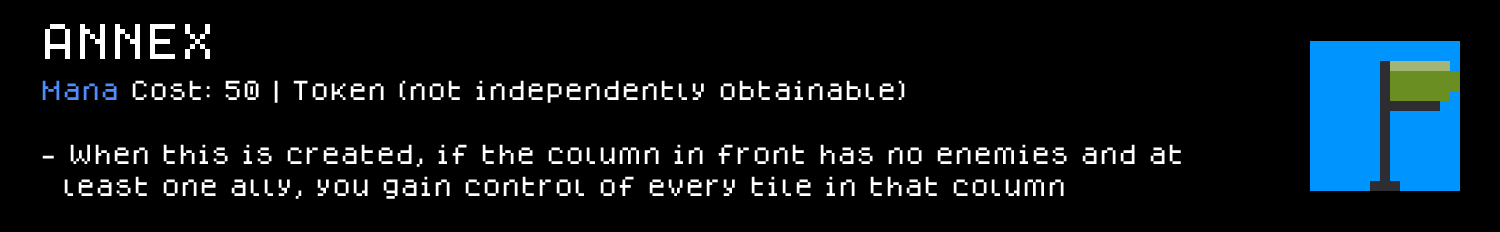
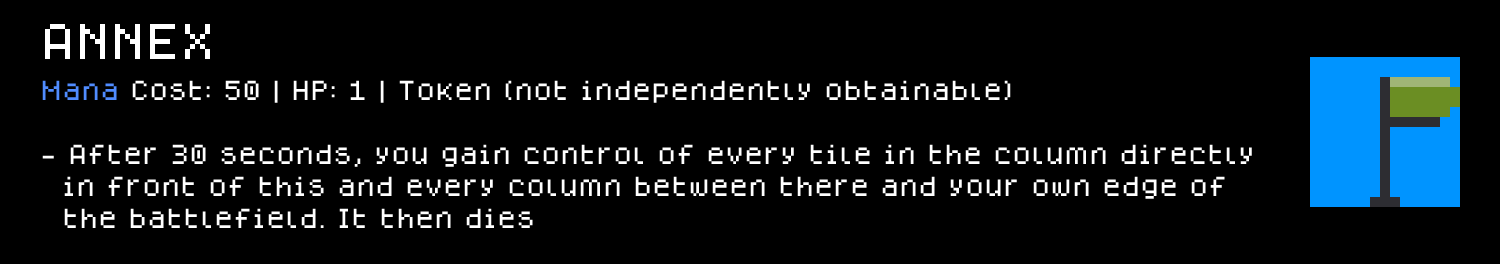
Annex and Retreat Change

diff --git a/.claude/skills/cube-chaos-scripting/references/gotchas-grepped.md b/.claude/skills/cube-chaos-scripting/references/gotchas-grepped.md
@@ -37,4 +37,5 @@ conversion (TOKEN→IDENT).
 - **`EveryXTimes DOUBLE Action` and `XTimes DOUBLE Action` are two distinct, both-real productions** (`ModdingInfo.txt:254` and `:261` respectively) — not a typo of each other and not interchangeable by assumption. Neither has a confirmed real usage anywhere in this repo as of 2026-07-27 (grepped, zero hits for either), so which one is semantically correct for "repeat this Action N times" (trigger-level periodic repetition vs. a one-shot repeated-N-times action) is still unverified — don't assume swapping one for the other silently fixes a parse error if something else in the same chain is actually broken (real incident: a `Both GainAbilityStacking ABILITY DOUBLE ...` chain threw `CANT READ DOUBLE XTimes`/`CANT READ DOUBLE EveryXTimes` identically under both names, because the real bug was `GainAbilityStacking` missing its second argument upstream — see this file's `GainAbilityStacking` entry above — not the repeat-wrapper's name).
 - **Re-granting an already-held `GenericStacking` ability via `GainAbility`/`GainRandomAbilityOfCube` (copying a live ability *value*, not calling `GainAbilityStacking` with an explicit number) DOES merge into the existing stack rather than creating a second, separately-tracked instance — user-confirmed in actual play (2026-07-26), not just inferred from the `GenericStacking`-vs-`GenericConstant` distinction documented elsewhere in this file.** The Voidling mod's `True_Void` carries a custom `VoidExpansionX` (`Counter GenericStacking`) stat-holder, occasionally re-granted to itself via `GainRandomAbilityOfCube Test` (which expands to `GainAbility (ARandomAbilityOfCubeWhich GenericCube True)` — a value-copy, not `GainAbilityStacking`); the user observed the ability's own stack count climbing over a battle rather than multiple separate "Void Reach 1" lines appearing. **What's still unconfirmed: the exact growth curve** — since `ARandomAbilityOfCubeWhich` picks the ability's *current* live value and `GainAbility` presumably adds that picked value to the existing stack, repeated picks could plausibly add a flat amount each time or compound (each pick adding whatever the stack has already grown to, i.e. doubling) — not yet distinguished empirically. If a future ability depends on knowing which, watch the exact numbers across 2-3 consecutive picks in a real battle rather than assuming linear growth.
 - **For a `BelongsTo: CLASS`/`SPECIES` perk's own "do something for MYSELF at the start of every battle" effect (grant a starting hand cube, run a one-time-per-battle computation over my own board state), use plain `Ability: AtTheStartOfTheBattle`, not `WorldAbility: AtTheStartOfTheBattle` — they are NOT interchangeable, confirmed by a real non-functional-in-play incident (2026-07-27), not just a parse difference.** Every real class in the base game grants its per-battle starting cube via the identical pattern, `Ability: AtTheStartOfTheBattle Both AddCubeToHandOfThis FreeCopy CubeConstant <X> RemoveThisAbility` (`Characters/Classes/*.c.txt`, all 10+ classes checked) — never `WorldAbility:`, and never `AddCubeToHandOfFactionInfinitly`/`AddCubeToHandOfFaction ... FactionOfCube Caster`. The General mod's new class-perk additions (a battle-start placement-zone-halving computation plus two hand-grants for `Claim`/`Retreat`) were first written as `WorldAbility: AtTheStartOfTheBattle` using `FactionOfCube Caster` throughout (to mean "my own side") and `AddCubeToHandOfFactionInfinitly CUBE FactionOfCube Caster` for the grants — this parsed with zero errors/warnings and looked structurally identical to real `WorldAbility:` precedent (`Main/NeutralPerks.c.txt`'s `Map_Compression`, the curses in `Main/Curses.c.txt`), but **user-confirmed in actual play: neither the halving nor the hand-grants ever happened**, while the same perk's pre-existing plain `Ability:` chains (the Strength-1-in-enemy-territory bonus) worked correctly the whole time. Every real `WorldAbility:` precedent that could be found either uses `Caster` purely as a scratch-variable holder with no faction check at all (`Map_Compression`), or is a curse checking `Victim`/`Target`'s faction, never `Caster`'s own (curses by nature target "the enemy," so they never needed "my own side" logic) — meaning there was never actually a confirmed real precedent of `WorldAbility:` + `FactionOfCube Caster` meaning "the perk owner," it was an unverified extrapolation from `Ability:`-context behavior. Switching all four affected lines from `WorldAbility:` to plain `Ability:` (keeping every other token identical, including `FactionOfCube Caster`) and switching the two hand-grants to `AddCubeToHandOfThis FreeCopy CubeConstant <X> RemoveThisAbility` fixed both effects, confirmed via the same real playtest. **Rule of thumb: `WorldAbility:` is for curses/neutral/global-scope effects that don't need "my own side" faction logic; a class/species's own self-directed per-battle behavior belongs on plain `Ability:`, even for `AtTheStartOfTheBattle`/`EveryXSeconds`-style periodic triggers that aren't reacting to a specific board event.**
+- **`XDelay DOUBLE Action` does not preserve the `Caster` binding for its delayed `Action` — every real usage anywhere in this repo only wraps bare, self-contained actions (`Die`, `Exile`, `RemoveThisAbility`), never `TargetCube Caster`/`GetVariableOnCube ... Caster`/`SetVariable`-based logic, and that gap turns out to be load-bearing, not incidental.** Real incident, the General mod's `Annex`/`Retreat` cubes (2026-07-27): first written as `Ability: AfterThisIsCreated XDelay DoubleConstant N Both <TargetCube-Caster-heavy column-claim/loss loop> Die` — parsed with zero errors, but **user-confirmed in actual play: the trailing bare `Die` fired correctly after the delay, while every `TargetCube Caster`/`GetVariableOnCube ... Caster`-based tile-ownership change inside the same delayed action silently did nothing** (Retreat died on schedule but never gave up even its own column; Annex's whole effect looked like it "wasn't ticking" at all). The fix: replace the `AfterThisIsCreated XDelay DoubleConstant N (...)` wrapper with `EveryXSeconds DoubleConstant N (...)` and drop `XDelay` entirely, keeping the rest of the chain (including the `Caster`-based loop and the trailing `Die`) byte-for-byte identical — `EveryXSeconds` has confirmed real precedent for `Caster`/variable-heavy logic (this same file's `Artillery`/`Bunker` cubes), fires its first tick at t=N not t=0 (confirmed via the base game's own `Doomed` compound, `EverySecond`+`1Shot Die` → "after 1 second this dies"), and since the effect ends in `Die` the cube can't survive to re-trigger, so no `1Shot` guard is needed. **Rule of thumb: for "wait N seconds, then run an effect that reads/writes this cube's own variables or targets `Caster`, then die," reach for `EveryXSeconds DoubleConstant N` (optionally `1Shot`-guarded if the effect *doesn't* end in `Die`), never `AfterThisIsCreated` + `XDelay`** — `XDelay` is confirmed safe only for delaying a bare terminal action with no `Caster`/variable dependency.
 - **`RemoveThisAbility` on an `Ability:`/`WorldAbility:` line does NOT persist across battles — it only suppresses re-triggering within the current battle. A `PERK:`'s `Ability:` chains are re-evaluated fresh from the static `.c.txt` definition every single battle, so anything "removed" via `RemoveThisAbility` is back and fully active again next battle.** This directly contradicts an earlier (wrong) version of this same entry, which claimed a self-removing `AtTheStartOfTheBattle Both RemoveThisAbility ChangeCampaignVariable <NAME> DoubleConstant 1` fires "exactly once ever." **Real incident, the General mod (2026-07-27): this exact pattern was used to register one stack of a class perk into `GENERAL_FRONTLINE_STACKS`, intended to add +1 once per run** — instead it added +1 *every single battle* (user-observed in actual play: the effect it drove compounded battle over battle, 1/2 → 1/4 → 1/8 of the board, instead of staying fixed at 1/2). Re-reading the real precedent this was copied from (`Curse_Of_Shields`) shows why it looked right but wasn't: that curse's "`+100` via a `RemoveThisAbility`-guarded `WorldAbility`" is paired with a *separate* `WorldAbility: AfterEndOfTheBattle SetCampaignVariable ENEMY_SHIELDS DoubleConstant 0` that resets the variable to 0 at the end of every battle — so its "+100 at battle start" is genuinely meant to re-fire every battle (100 fresh shield HP per battle), and the `RemoveThisAbility` there is just a same-battle re-trigger guard, never evidence of true once-per-run persistence. **There is no confirmed way to make an `Ability:`/`WorldAbility:` trigger fire only once for the whole run.** The real one-time-per-acquisition mechanism is **`ObtainAction:`** — it fires exactly once, when the perk itself is gained (class selection, chest pickup, etc.), never again on subsequent battles, confirmed by dozens of real base-game examples (`ObtainAction: ChangeCampaignVariable <NAME> DoubleConstant N`, e.g. `Main/Perks.c.txt:971`, `Main/GoldenPerks.c.txt:122`, `Characters/Species/Moil.c.txt:63`, and this exact perk's own pre-existing `ObtainAction: AddCubeToInventory CubeConstant Bunker` lines). **For a `PERK:`-level effect that needs to "stack" across potentially multiple independent sources** (the base perk plus some future separate upgrade/synergy perk), use `ObtainAction: ChangeCampaignVariable <NAME> DoubleConstant 1` on each contributing perk instead — genuinely fires once per acquisition, not once per battle. The actual per-battle *effect* that reads the accumulated count (`GetCampaignVariable <NAME>`) stays a separate, always-active `Ability: AtTheStartOfTheBattle` (recomputed fresh every battle from the live count, no `RemoveThisAbility` involved at all) — see the territory-halving idiom in `references/targeting-movement-board.md` for the full worked example (General mod's `GENERAL_FRONTLINE_STACKS`), now fixed to use `ObtainAction:` for the registration half.
